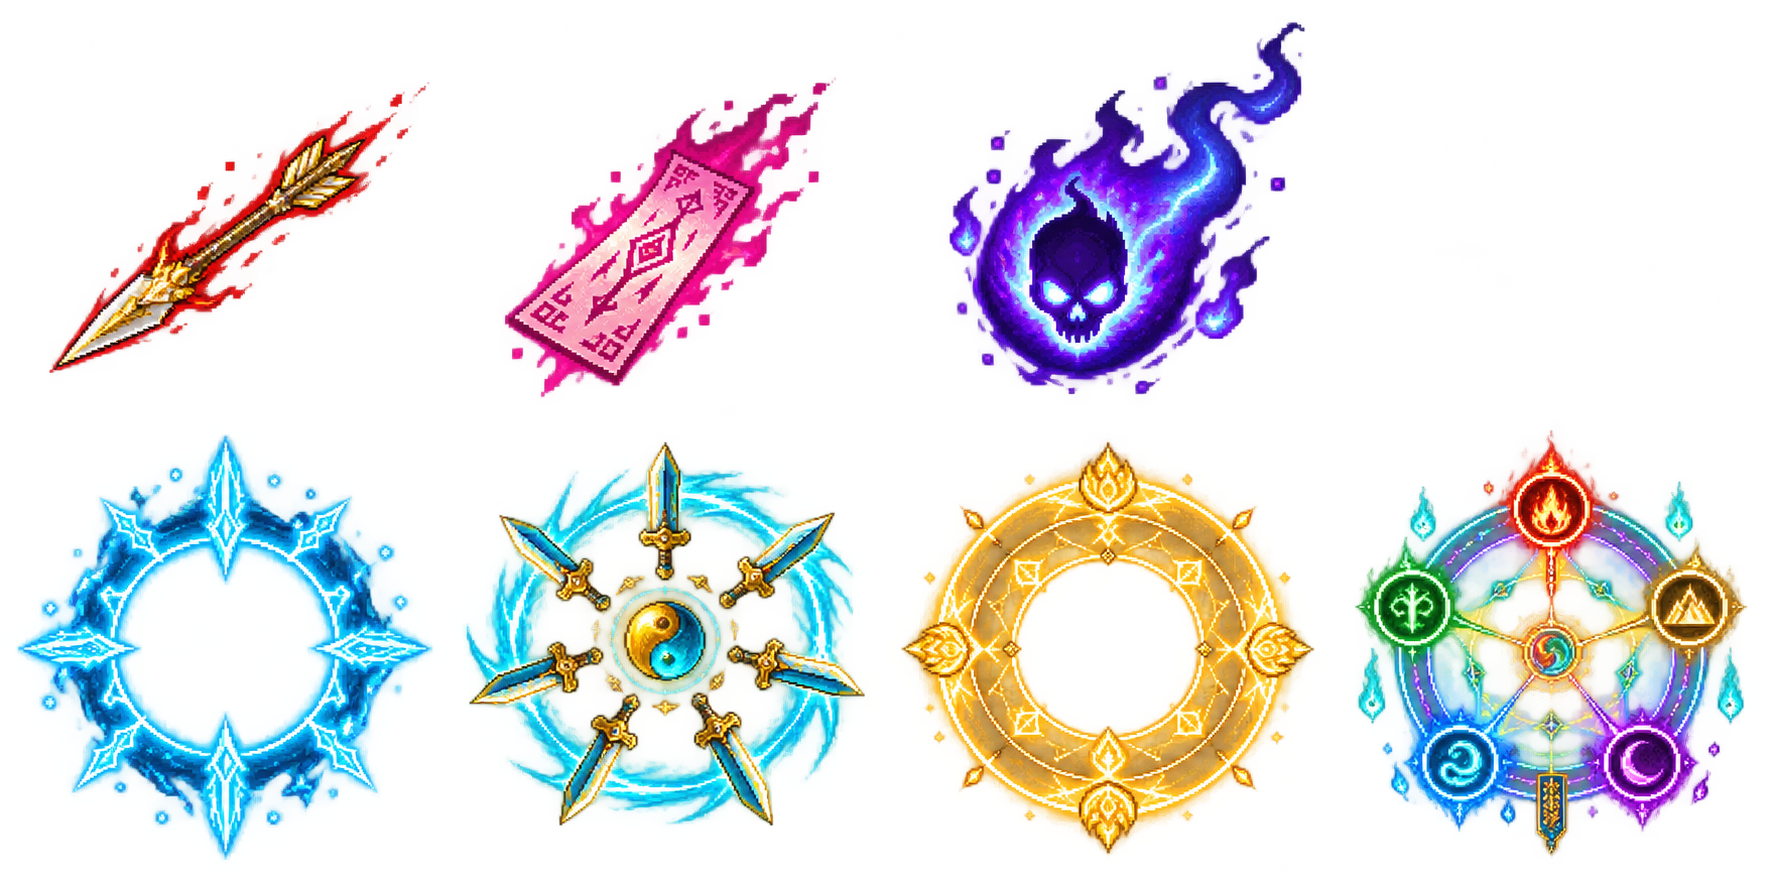
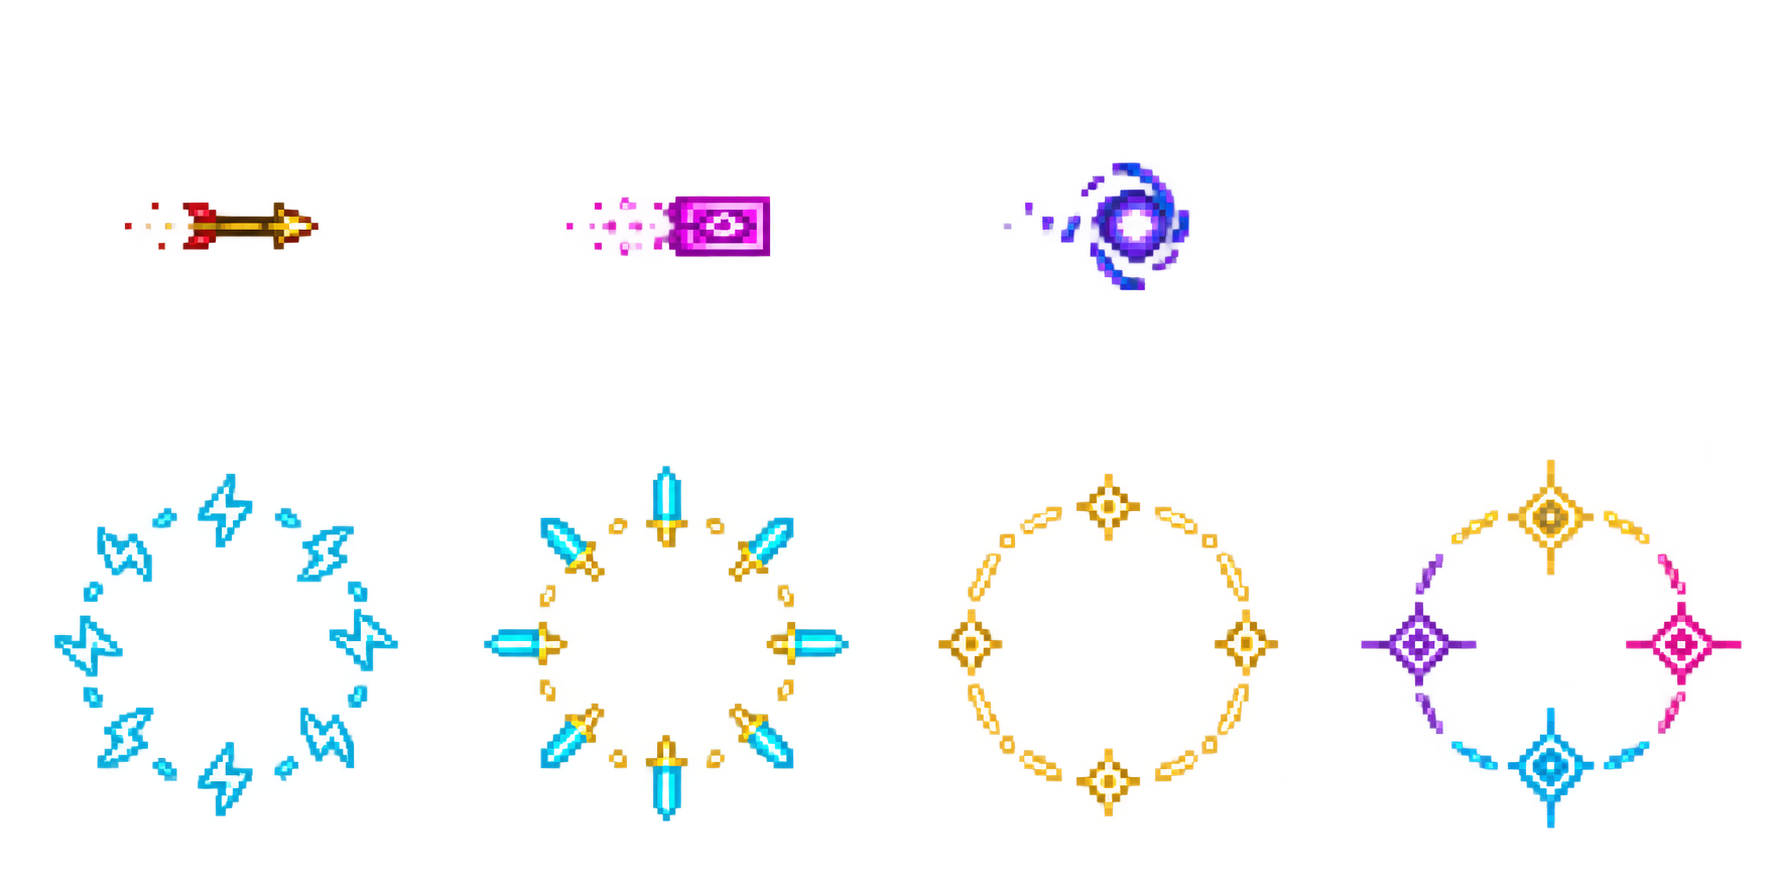
fix: refine generated combat effect styling

diff --git a/src/render/generatedPixelArt.ts b/src/render/generatedPixelArt.ts
@@ -160,9 +160,9 @@ export function getGeneratedEnemyProjectileTexture(kind: EnemyProjectileKind): s
 }
 
 export function getGeneratedEnemyProjectileScale(kind: EnemyProjectileKind): number {
-  if (kind === 'soul-orb') return 0.34;
-  if (kind === 'fan-seal') return 0.28;
-  return 0.22;
+  if (kind === 'soul-orb') return 0.21;
+  if (kind === 'fan-seal') return 0.18;
+  return 0.15;
 }
 
 export function getPersistentEffectVisuals(
@@ -172,26 +172,26 @@ export function getPersistentEffectVisuals(
   return {
     'thunder-ring': {
       visible: input.thunderRadius > 0,
-      diameter: input.thunderRadius * 2 + 38,
-      alpha: 0.58,
+      diameter: input.thunderRadius * 2,
+      alpha: 0.32,
       rotation: input.timeMs * 0.00042,
     },
     'orbiting-blades': {
       visible: input.orbitingBladeCount > 0,
-      diameter: input.orbitingBladeRadius * 2 + 72,
-      alpha: Math.min(0.68, 0.46 + input.orbitingBladeCount * 0.025),
+      diameter: input.orbitingBladeRadius * 2 + 24,
+      alpha: Math.min(0.38, 0.26 + input.orbitingBladeCount * 0.02),
       rotation: -input.timeMs * 0.00055,
     },
     'golden-shield': {
       visible: barrierActive || input.shield > 0,
-      diameter: barrierActive ? input.activeBarrierRadius * 2 + 36 : 120,
-      alpha: barrierActive ? 0.68 : 0.48,
+      diameter: barrierActive ? input.activeBarrierRadius * 2 + 16 : 96,
+      alpha: barrierActive ? 0.4 : 0.3,
       rotation: input.timeMs * 0.0003,
     },
     'awakening-formation': {
       visible: input.awakenedSkillCount > 0,
-      diameter: 220 + input.awakenedSkillCount * 28,
-      alpha: Math.min(0.62, 0.34 + input.awakenedSkillCount * 0.055),
+      diameter: 160 + input.awakenedSkillCount * 24,
+      alpha: Math.min(0.38, 0.24 + input.awakenedSkillCount * 0.04),
       rotation: input.timeMs * 0.00018,
     },
   };

diff --git a/tests/render/generatedPixelArt.test.ts b/tests/render/generatedPixelArt.test.ts
@@ -54,6 +54,9 @@ describe('generated pixel-art asset manifest', () => {
   });
 
   it('keeps enemy projectile silhouettes distinct at combat scale', () => {
+    expect(getGeneratedEnemyProjectileScale('bolt')).toBe(0.15);
+    expect(getGeneratedEnemyProjectileScale('fan-seal')).toBe(0.18);
+    expect(getGeneratedEnemyProjectileScale('soul-orb')).toBe(0.21);
     expect(getGeneratedEnemyProjectileScale('bolt')).toBeLessThan(
       getGeneratedEnemyProjectileScale('fan-seal'),
     );
@@ -74,10 +77,11 @@ describe('generated pixel-art asset manifest', () => {
       timeMs: 1000,
     });
 
-    expect(visuals['thunder-ring']).toMatchObject({ visible: true, diameter: 338 });
-    expect(visuals['orbiting-blades'].visible).toBe(true);
-    expect(visuals['golden-shield'].visible).toBe(true);
-    expect(visuals['awakening-formation'].visible).toBe(true);
+    expect(visuals['thunder-ring']).toMatchObject({ visible: true, diameter: 300, alpha: 0.32 });
+    expect(visuals['orbiting-blades']).toMatchObject({ visible: true, diameter: 204 });
+    expect(visuals['golden-shield']).toMatchObject({ visible: true, diameter: 96 });
+    expect(visuals['awakening-formation']).toMatchObject({ visible: true, diameter: 232 });
+    expect(Math.max(...Object.values(visuals).map((visual) => visual.alpha))).toBeLessThanOrEqual(0.4);
   });
 
   it('provides four arena themes and four readable skill decals', () => {
